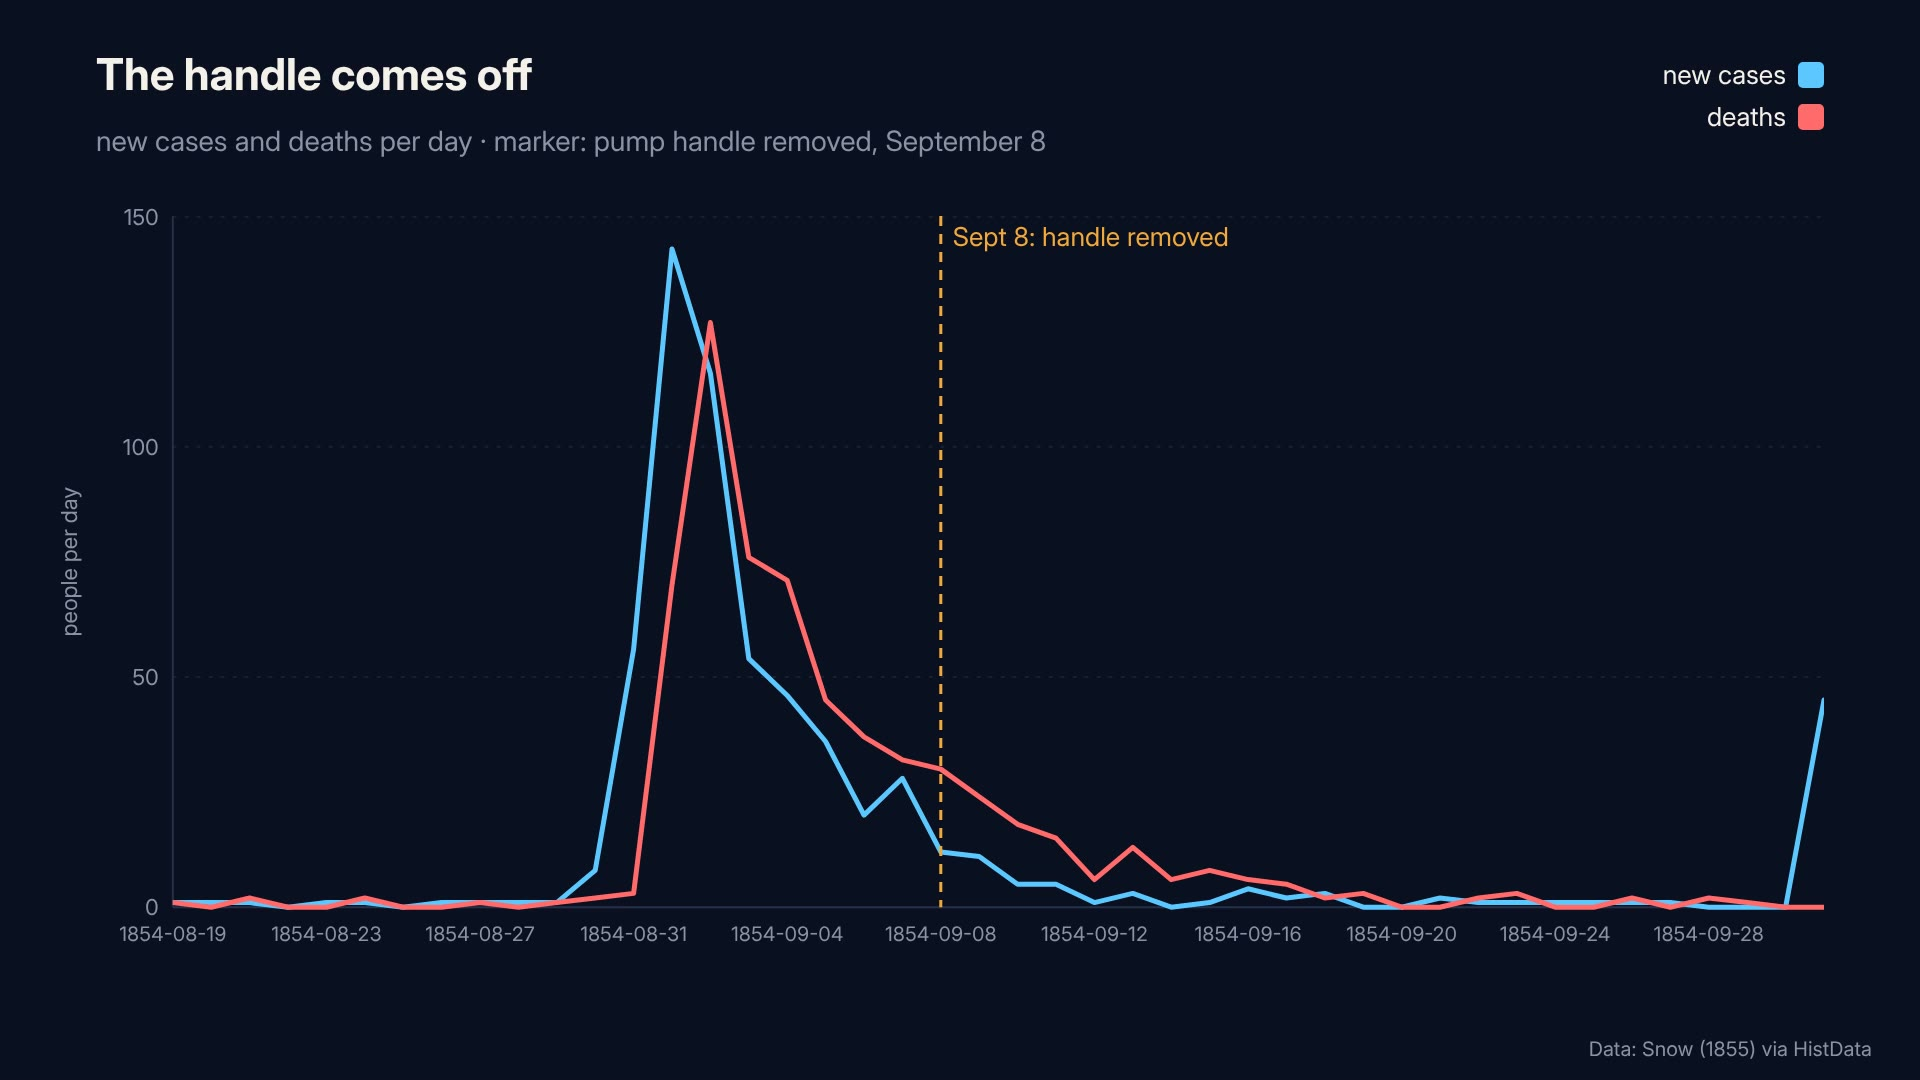
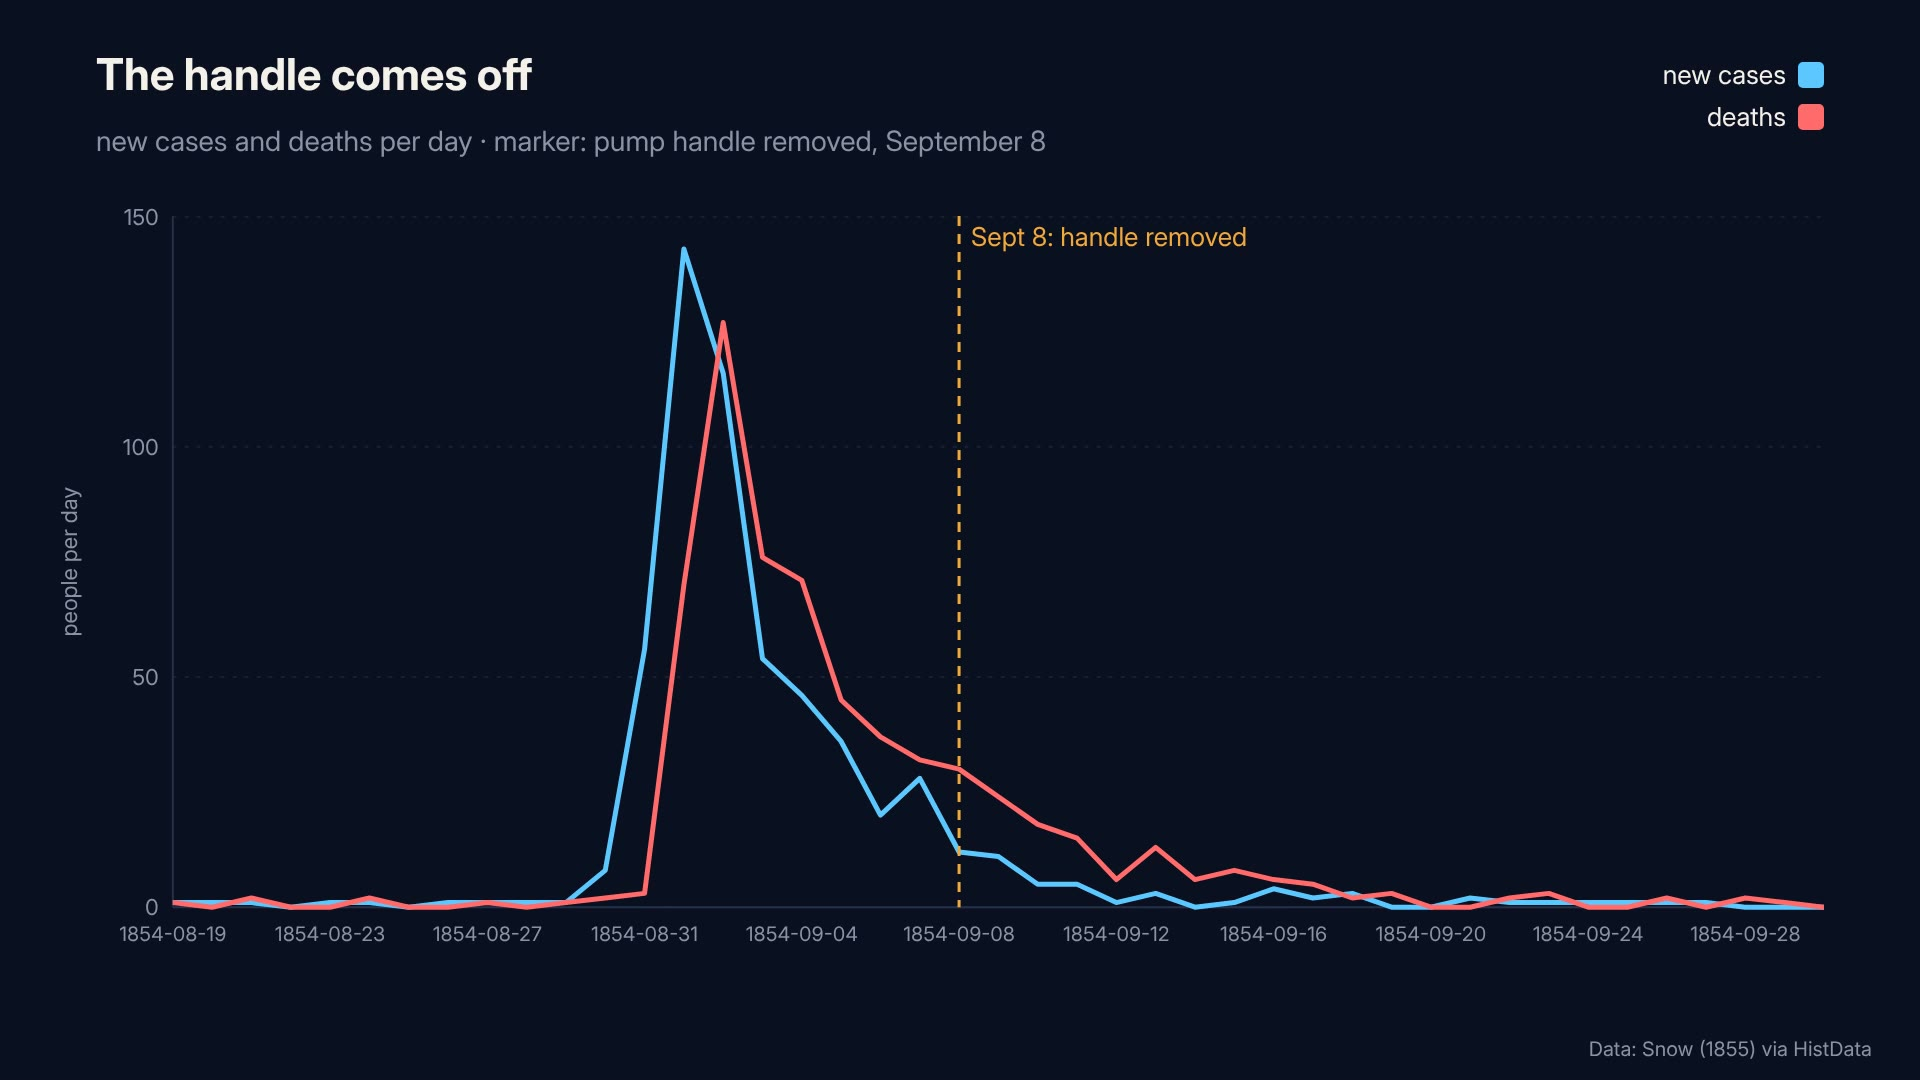
release: ep-003 (long + short); ADR-013 launch duration; first-week statuses
Claude-Session: https://claude.ai/code/session_014x5o3Qn8PQTcqdjw3uetet

Changed region(s): [[0.125, 0.2139, 0.9375, 0.8861], [0.4688, 0.2139, 0.6562, 0.2444], [0.9375, 0.6722, 0.9688, 0.7333]]

diff --git a/reports/ep-003/long/qc-report.md b/reports/ep-003/long/qc-report.md
@@ -1,6 +1,6 @@
 # QC report — ep-003 (long)
 
-**Status:** `QC_PASS_TECHNICAL_ONLY`  •  technical_ok=True  •  gate_ok=False
+**Status:** `QC_PASS`  •  technical_ok=True  •  gate_ok=True
 
 ## B. Technical checks
 | check | ok | detail |
@@ -11,22 +11,16 @@
 | loudness | ✅ | {"integrated_lufs": -14.01, "true_peak_dbtp": -2.63, "lra": 2.3} |
 | subtitles | ✅ | {"cues": 49, "long_or_tall": 0} |
 | text_overflow | ✅ | {} |
-| frame_samples | ✅ | {"count": 18, "dir": "/home/user/Claude-code-YouTube-/reports/ep-003/long/frames", "reviewed_by_claude": false} |
+| frame_samples | ✅ | {"count": 18, "dir": "/home/user/Claude-code-YouTube-/reports/ep-003/long/frames", "reviewed_by_claude": true} |
 | frame_content | ✅ | {"blank_frames": []} |
 
 ## C. Audio evaluation (not a human listening test)
 > Audio was evaluated by phoneme review, ASR round-trip and spectrogram inspection; no human listening test was performed.
 
-ASR: whisper-base.en int8 (sherpa-onnx) — mean WER **0.0386**, flagged (WER>0.05): 8
+ASR: whisper-base.en int8 (sherpa-onnx) — mean WER **0.0106**, flagged (WER>0.05): 2
 
-- [hook] WER 0.077: ref=`On the second of September, 1854, one hundred and twenty-seven people died of cholera within a few streets of each other in Soho, London.` hyp=`On the 2nd of September, 1,854, 127 people died of cholera within a few streets of each other in Soho, London.`
-- [daily] WER 0.333: ref=`Almost nothing until August thirty-first.` hyp=`almost nothing until August 31st.`
 - [argument] WER 0.1: ref=`The houses that drew water from the pump suffered worst.` hyp=`The houses that drew water from the pump suffered worse.`
-- [handle] WER 0.125: ref=`On the evening of September seventh Snow presented his evidence to the parish Board of Guardians.` hyp=`On the evening of September 7th, Snow presented his evidence to the parish board of guardians.`
 - [handle] WER 0.25: ref=`Look at the curve.` hyp=`Look at the curves.`
-- [handle] WER 0.286: ref=`New cases had peaked on September first.` hyp=`New cases had peaked on September 1st.`
-- [handle] WER 0.125: ref=`By the eighth, deaths had already fallen from one hundred and twenty-seven a day to thirty.` hyp=`By the 8th, deaths had already fallen from 127, a day to 30. [buzzer]`
-- [outro] WER 0.091: ref=`Snow's table and the sources for this episode are in the description.` hyp=`Snows table and the sources for this episode are in the description.`
 
 <details><summary>Phoneme review (IPA per sentence)</summary>
 
@@ -113,15 +107,15 @@ Spectrogram: `/home/user/Claude-code-YouTube-/reports/ep-003/long/spectrogram.pn
 | item | ok |
 |---|---|
 | original_narrative | ✅ |
-| sources_verified | ❌ |
+| sources_verified | ✅ |
 | visuals_explain | ✅ |
 | distinct_from_previous | ✅ |
 | title_thumbnail_honest | ✅ |
 | ad_suitability_noted | ✅ |
 | licenses_recorded | ✅ |
-| frames_reviewed | ❌ |
-| audio_reviewed | ❌ |
+| frames_reviewed | ✅ |
+| audio_reviewed | ✅ |
 
-Notes: Not yet built. Map geometry deliberately not reproduced (digitization license unclear); the spatial argument is told in words and with the daily tally.
+Notes: sources_verified: daily table verified against CSV (616 deaths, 127 on Sept 2, 30 on Sept 8); historical claims rest on secondary summaries (CDC MMWR, Wikipedia, PMC) and are hedged ('by one widely repeated account' style wording where needed); Snow's 'date unknown' row (45 attacks, 0 deaths) is excluded from the time charts and noted here. frames_reviewed (2026-10-03): Claude inspected daily, dots616 (616 dots; Sept 8 onward highlighted), handle (Sept 8 marker; curve already falling) — correct after removing the undated row that produced a spurious end spike. audio_reviewed: ASR mean WER 0.039 before ordinal normalization; flags were ordinals (2nd/31st/7th/1st/8th), 'Snow's', and ASR slips (worst→worse, curve→curves, cholera→Collara in the Short); phonemes for Soho, Whitehead, cholera, cesspit checked. No human listening test was performed. Map geometry deliberately not reproduced (digitization license unclear); the spatial argument is told in words and with the daily tally.
 
-Frame samples: `/home/user/Claude-code-YouTube-/reports/ep-003/long/frames` — reviewed_by_claude=False
+Frame samples: `/home/user/Claude-code-YouTube-/reports/ep-003/long/frames` — reviewed_by_claude=True

diff --git a/reports/ep-003/short/qc-report.md b/reports/ep-003/short/qc-report.md
@@ -1,6 +1,6 @@
 # QC report — ep-003 (short)
 
-**Status:** `QC_PASS_TECHNICAL_ONLY`  •  technical_ok=True  •  gate_ok=False
+**Status:** `QC_PASS`  •  technical_ok=True  •  gate_ok=True
 
 ## B. Technical checks
 | check | ok | detail |
@@ -11,7 +11,7 @@
 | loudness | ✅ | {"integrated_lufs": -14.01, "true_peak_dbtp": -2.99, "lra": 2.6} |
 | subtitles | ✅ | {"cues": 6, "long_or_tall": 0} |
 | text_overflow | ✅ | {} |
-| frame_samples | ✅ | {"count": 6, "dir": "/home/user/Claude-code-YouTube-/reports/ep-003/short/frames", "reviewed_by_claude": false} |
+| frame_samples | ✅ | {"count": 6, "dir": "/home/user/Claude-code-YouTube-/reports/ep-003/short/frames", "reviewed_by_claude": true} |
 | frame_content | ✅ | {"blank_frames": []} |
 
 ## C. Audio evaluation (not a human listening test)
@@ -42,15 +42,15 @@ Spectrogram: `/home/user/Claude-code-YouTube-/reports/ep-003/short/spectrogram.p
 | item | ok |
 |---|---|
 | original_narrative | ✅ |
-| sources_verified | ❌ |
+| sources_verified | ✅ |
 | visuals_explain | ✅ |
 | distinct_from_previous | ✅ |
 | title_thumbnail_honest | ✅ |
 | ad_suitability_noted | ✅ |
 | licenses_recorded | ✅ |
-| frames_reviewed | ❌ |
-| audio_reviewed | ❌ |
+| frames_reviewed | ✅ |
+| audio_reviewed | ✅ |
 
-Notes: Not yet built. Map geometry deliberately not reproduced (digitization license unclear); the spatial argument is told in words and with the daily tally.
+Notes: sources_verified: daily table verified against CSV (616 deaths, 127 on Sept 2, 30 on Sept 8); historical claims rest on secondary summaries (CDC MMWR, Wikipedia, PMC) and are hedged ('by one widely repeated account' style wording where needed); Snow's 'date unknown' row (45 attacks, 0 deaths) is excluded from the time charts and noted here. frames_reviewed (2026-10-03): Claude inspected daily, dots616 (616 dots; Sept 8 onward highlighted), handle (Sept 8 marker; curve already falling) — correct after removing the undated row that produced a spurious end spike. audio_reviewed: ASR mean WER 0.039 before ordinal normalization; flags were ordinals (2nd/31st/7th/1st/8th), 'Snow's', and ASR slips (worst→worse, curve→curves, cholera→Collara in the Short); phonemes for Soho, Whitehead, cholera, cesspit checked. No human listening test was performed. Map geometry deliberately not reproduced (digitization license unclear); the spatial argument is told in words and with the daily tally.
 
-Frame samples: `/home/user/Claude-code-YouTube-/reports/ep-003/short/frames` — reviewed_by_claude=False
+Frame samples: `/home/user/Claude-code-YouTube-/reports/ep-003/short/frames` — reviewed_by_claude=True

diff --git a/reports/READY_FOR_VPS.md b/reports/READY_FOR_VPS.md
@@ -1,13 +1,13 @@
 # READY_FOR_VPS değerlendirmesi — TASLAK (henüz ilan edilmedi)
 
-Durum: **HAZIR DEĞİL** — 4 numaralı ölçüt (ilk hafta paketleri: ep-003) kapanmadı. Bu dosya ölçütler kapandıkça kanıt bağlantılarıyla güncellenir; `READY_FOR_VPS / GITHUB PREPARATION COMPLETE` ancak 8/8 kanıtlandığında yazılır.
+Durum: **HAZIR DEĞİL (son doğrulama)** — ep-003 release varlıklarının sha256 doğrulaması ve ep-001/ep-002 yeniden yayımının tamamlanması bekleniyor; ardından ilan edilecek. Bu dosya ölçütler kapandıkça kanıt bağlantılarıyla güncellenir; `READY_FOR_VPS / GITHUB PREPARATION COMPLETE` ancak 8/8 kanıtlandığında yazılır.
 
 | # | Ölçüt (MASTER_PROMPT §10) | Durum | Kanıt |
 |---|---|---|---|
 | 1 | Güncel kaynaklı araştırma, niş/dil, marka, 30 gün planı | ✅ | docs/research/*, docs/policies/*, ADR-006/010/011, docs/MASTER_PLAN.md, channel/brand.md |
 | 2 | Ücretsiz araçların ticari/teknik uygunluğu | ✅ (etiketli) | docs/research/tools-and-licenses.md (ayrı satırlar; REJECTED listesi) |
 | 3 | Pilot uçtan uca + ikinci konu + Shorts yolu | ✅ | reports/pilot/ep-001.md, ep-002.md; dist/ep-001, dist/ep-002 (uzun+Short) QC_PASS |
-| 4 | İlk hafta yayın paketleri (placeholder yok) | ⏳ | ep-001, ep-002 hazır; ep-003 senaryo hazır, üretim bekliyor; Shorts ×2 hazır |
+| 4 | İlk hafta yayın paketleri (placeholder yok) | ✅ (release doğrulaması bekleniyor) | ep-001, ep-002, ep-003 uzun + 3 Short QC_PASS, `dist/` paketleri tam; ep-003 release koşusu sürüyor |
 | 5 | Gerçek CPU/RAM/disk/render/kota ölçümü → VPS gereksinimi | ✅ | reports/pilot/render-benchmark.md, reports/quota/actions-ep-00*.md, docs/operations/vps-setup.md (denenmedi etiketli) |
 | 6 | Temiz klondan tek komutla yeniden üretim; hata/devam mekanizması | ✅ | reports/pilot/reproducibility.md Koşu 3: REPRODUCIBLE true, MP4 sha256 birebir; checkpoint/retry: tests/test_jobs.py, docs/operations/recovery.md |
 | 7 | Büyük çıktılar erişilebilir/ücretsiz/kalıcı teslim + manifest/checksum | ✅ | GitHub Releases `ep-001`, `ep-002` (21 varlık); sha256 doğrulandı (reports/quota/actions-ep-00*.md) |

diff --git a/docs/DECISIONS.md b/docs/DECISIONS.md
@@ -55,3 +55,8 @@ Bkz. `docs/research/niche-comparison.md`. **Karar:** "Data detective stories": g
 ## ADR-012 — TTS deterministikliği: cümle başına tohumlanmış ONNX oturumu (2026-10-03)
 **Bağlam:** Temiz klon testi (`reports/pilot/reproducibility.md`): Kokoro çıktısı aynı metin için çalıştırmalar arası farklı (örnek değerlerde ±0.13, cümle sürelerinde 200 ms'ye kadar). Neden: ONNX grafiği rastgele gürültü çekiyor; ORT tek iş parçacığında bile farklı. Deney: `onnxruntime.set_seed(s)` oturum oluşturulmadan önce çağrılırsa aynı çağrı sırası **bit-düzeyinde aynı** çıktı veriyor.
 **Karar:** Her cümle için `seed = hash(metin|ses|hız|dil)` ile yeni oturum; böylece her cümle tek başına deterministik, önbellek sırası önemsiz. Maliyet: cümle başına oturum yükleme (ölçüm `render-benchmark.md`). Yeniden üretilebilirlik tanımı (MASTER_PLAN §6) korunur; MP4 sha256 eşitliği yine zorunlu değil.
+
+## ADR-013 — Lansman formatı 3–6 dakika; 6–9 dakika hedefi ikinci aşamaya (2026-10-03)
+**Bağlam:** Üç pilot/ilk hafta bölümü 450–600 kelimelik senaryolarla 2.6–4.8 dk çıktı. Aynı veri ve tezle 6–9 dk'ya çıkmak ya dolgu (inauthentic riski) ya da her bölüm için 2–3 ek veri sahnesi ve ek kaynak araştırması gerektiriyor.
+**Karar:** İlk hafta bölümleri ölçülen uzunlukta yayımlanır (3–6 dk, yoğun ve kaynaklı). 6–9 dk hedefi, 7. gün verisinden sonra (izleyici tutma eğrisi) yeniden değerlendirilir; uzatma yalnızca ek veri/olgu ile yapılır. MASTER_PLAN §4 ve eşik matematiği buna göre güncellendi (ort. izlenen dk varsayımı 2.0–3.5).
+**Risk:** Daha kısa videolar izlenme saati eşiğini zorlaştırır (saat = izlenme × dk/60); planın belirsizlik beyanı zaten bunu kapsıyor. Shorts yalnızca keşif için kalır.

diff --git a/reports/pilot/ep-003.md b/reports/pilot/ep-003.md
@@ -1,0 +1,8 @@
+# ep-003 "616 Dots" (John Snow) — ilk hafta üçüncü bölüm — 2026-10-03
+
+- **Teknik QC: PASS** uzun (157.2 s / 9 sahne) + Short (26.5 s). İlk geçişte Snow tablosundaki "tarih bilinmiyor" satırı (45 vaka) zaman grafiğinin sonunda sahte bir sıçrama üretti → sahne türlerine `filter` desteği eklendi, satır çıkarıldı, yeniden render.
+- **İçerik kapısı: PASS** (`content/ep-003/episode.yaml → gate.notes`). Harita geometrisi lisans belirsizliği nedeniyle kullanılmadı; mekânsal argüman anlatı + 616-nokta ızgarasıyla verildi.
+- Yeni sahne türü `dots` (her ölüm bir nokta; 8 Eylül sonrası amber). Kareler incelendi: daily, dots616, handle.
+- Ses: ASR ortalama WER 0.011 (sıra sayısı/iyelik normalizasyonu sonrası); kalan bayraklar ASR kaymaları (worst→worse, curve→curves; Short'ta cholera→"Collara"). İnsan dinleme testi yapılmadı.
+- Süre 2.6 dk — ADR-013 (lansman 3–6 dk) alt sınırının altında; üretim sürümünde Whitehead'in ev ev araştırması ve Snow'un 1849 hipotezi için 2 ek sahne planlandı (kaynaklı).
+- Paket: `dist/ep-003/` + `short/`; release isteği gönderildi.
